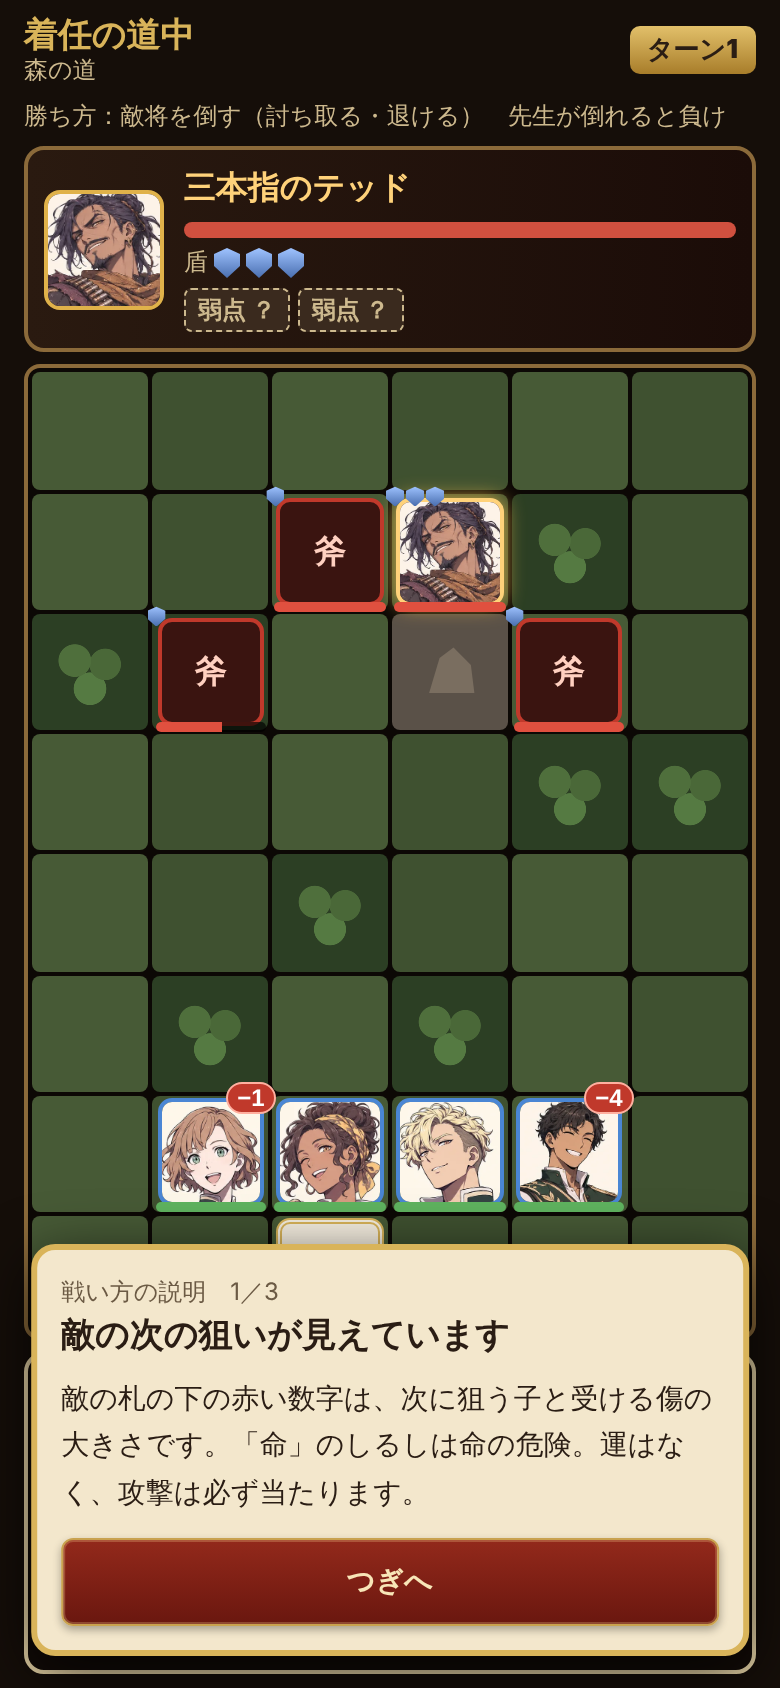
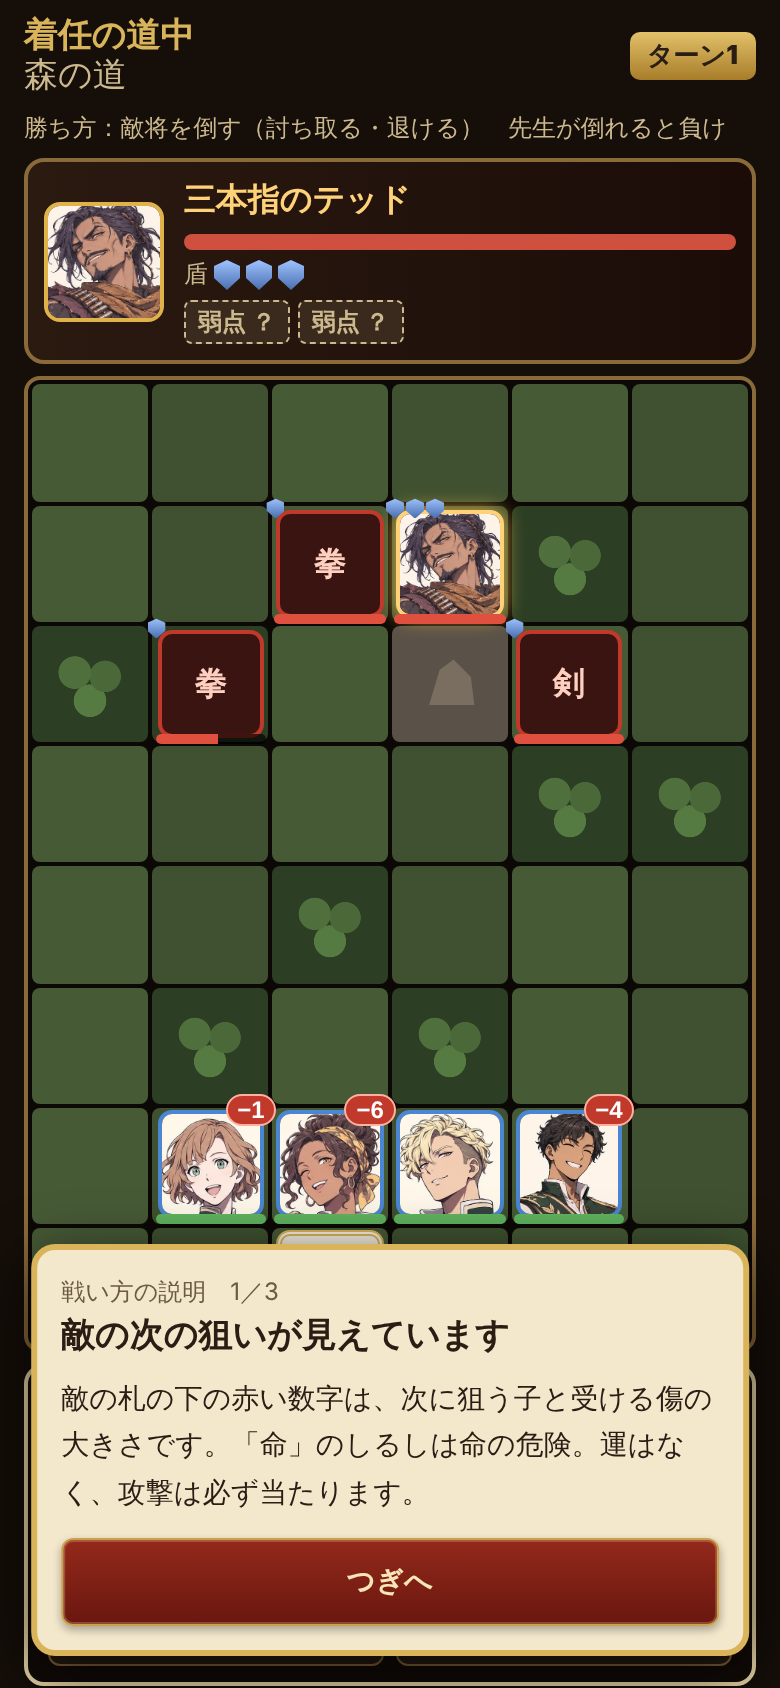
19夜目：効果音・小さい字の直し・画面の撮り直し・報告書の下書き・設計書の先頭に正本の案内
Claude-Session: https://claude.ai/code/session_01BQhBDAHr1iwRSoUrPG1dMB

diff --git a/src/ui/styles.css b/src/ui/styles.css
@@ -2068,10 +2068,10 @@ details.fold > summary::-webkit-details-marker { display: none; }
 .tb-u.foe .tb-hp i { background: #e0503f; }
 .tb-ss { position: absolute; top: -3px; left: -2px; display: flex; gap: 1px; }
 .tb-ss .sh { width: 9px; height: 10px; }
-.tb-brk { font: 900 10px var(--sans, sans-serif); background: #ffd27a; color: #5a120c; border-radius: 3px; padding: 0 3px; }
+.tb-brk { font: 900 12px var(--sans, sans-serif); background: #ffd27a; color: #5a120c; border-radius: 3px; padding: 0 3px; }
 .tb-inc { position: absolute; top: -5px; right: -3px; z-index: 4; background: #c0392b; color: #fff; font: 900 12px var(--sans, sans-serif); border-radius: 8px; padding: 0 5px; border: 1px solid #ffb0a0; }
 .tb-inc.lethal { background: #1a0000; border: 2px solid #ff3b2b; color: #ffd0c0; animation: tbpulse .8s infinite; }
-.tb-aim { position: absolute; bottom: -2px; left: 50%; transform: translateX(-50%); background: #000c; color: #ffd27a; font: 700 11px var(--sans, sans-serif); border-radius: 6px; padding: 0 4px; }
+.tb-aim { position: absolute; bottom: -2px; left: 50%; transform: translateX(-50%); background: #000c; color: #ffd27a; font: 700 12px var(--sans, sans-serif); border-radius: 6px; padding: 0 4px; }
 .tb-pop { position: absolute; transform: translateX(-50%); z-index: 9; font: 900 20px var(--sans, sans-serif); color: #fff; text-shadow: 0 0 3px #a3281e, 0 0 3px #a3281e, 0 2px 0 #5a120c; pointer-events: none; animation: tbpop .9s forwards; white-space: nowrap; }
 .tb-pop.heal { text-shadow: 0 0 3px #1f6b3a, 0 0 3px #1f6b3a; }
 .tb-pop.sh { font-size: 13px; color: #cfe2ff; text-shadow: 0 0 3px #1b3a70, 0 0 3px #1b3a70; margin-top: 18px; }
@@ -2092,7 +2092,7 @@ details.fold > summary::-webkit-details-marker { display: none; }
 .tb-wf { width: 40px; height: 40px; border-radius: 6px; overflow: hidden; border: 2px solid #4a86d4; flex: none; position: relative; background: #f7f0e2; }
 .tb-techs { display: flex; flex-wrap: wrap; gap: 4px; margin-top: 3px; }
 .tb-tch { font-size: 12px; background: #2a1c12; border: 1px solid #8b6a3a; border-radius: 5px; padding: 1px 5px; color: #f1e3c2; }
-.tb-tch small { color: #cdb98e; margin-left: 3px; }
+.tb-tch small { color: #cdb98e; margin-left: 3px; font-size: 12px; }
 .tb-cards { display: grid; grid-template-columns: repeat(2, minmax(0, 1fr)); gap: 6px; margin-top: 6px; }
 .tb-card { min-height: 64px; text-align: left; border-radius: 8px; border: 1px solid #8b6a3a; background: #3a2a1e; color: #f1e3c2; padding: 6px 8px; display: flex; flex-direction: column; gap: 2px; font: inherit; cursor: pointer; overflow: hidden; }
 .tb-card:disabled { opacity: .4; }
@@ -2203,3 +2203,4 @@ body[data-light="day"], body[data-light="day"][data-season] {
 }
 body[data-light="day"] .desk-candle { opacity: .35; box-shadow: none; }
 body[data-light="day"] .desk-candle::before { display: none; }
+.tb-wrap small, .nem-card small { font-size: max(12px, 1em); }

diff --git a/src/ui/sound.ts b/src/ui/sound.ts
@@ -38,6 +38,11 @@ const SOUNDS: Record<string, Note[]> = {
   tick: [[1568, 0, 0.06, 'square', 0.1], [2093, 0.04, 0.08, 'square', 0.08]],
   page: [[300, 0, 0.05, 'triangle', 0.1], [500, 0.03, 0.06, 'triangle', 0.06]],
   text: [[1200, 0, 0.02, 'square', 0.03]],
+  // 19夜目：新しい戦いの効果音（ゲームの中で作る。設定の「効果音」で切れる）
+  weak: [[880, 0, 0.05, 'square', 0.12], [1320, 0.04, 0.08, 'triangle', 0.14]],
+  shield: [[2400, 0, 0.03, 'square', 0.1], [1800, 0.02, 0.06, 'triangle', 0.14], [3200, 0.05, 0.05, 'sine', 0.08]],
+  break: [[180, 0, 0.18, 'sawtooth', 0.28], [90, 0.06, 0.3, 'square', 0.2], [2600, 0, 0.05, 'square', 0.12], [1900, 0.08, 0.08, 'square', 0.1], [1400, 0.16, 0.12, 'triangle', 0.12]],
+  nemesis: [[110, 0, 0.5, 'sawtooth', 0.16], [116, 0, 0.5, 'sawtooth', 0.12], [220, 0.35, 0.4, 'square', 0.1], [207, 0.7, 0.6, 'sawtooth', 0.12]],
   // エンディングの調べ（BGMのファイルがなくても流れる短いメロディ）
   ending: [[392, 0, 0.45, 'triangle', 0.16], [523, 0.45, 0.45, 'triangle', 0.16], [587, 0.9, 0.45, 'triangle', 0.16], [659, 1.35, 0.9, 'triangle', 0.16],
     [523, 2.3, 0.45, 'triangle', 0.14], [587, 2.75, 0.45, 'triangle', 0.14], [784, 3.2, 1.4, 'triangle', 0.16], [262, 0, 1.3, 'sine', 0.08], [330, 1.35, 1.3, 'sine', 0.08], [392, 3.2, 1.6, 'sine', 0.08]],

diff --git a/src/ui/Tactics.tsx b/src/ui/Tactics.tsx
@@ -54,6 +54,7 @@ export function TacticsView() {
   useEffect(() => {
     if (!s?.battle || started.current) return;
     started.current = true;
+    if (s.battle.nemesisId) sfx('nemesis');
     if (s.battle.fx.length && s.battle.turn === 1) { const fx = s.battle.fx; act((g) => { if (g.battle) g.battle.fx = []; }, false); setReplay({ view: clone(s.battle), queue: fx, i: 0 }); }
   }, []);
   // 演出を1つずつ

diff --git a/docs/reports/night19.md b/docs/reports/night19.md
@@ -1,0 +1,55 @@
+# 19夜目の報告（大改修：宿敵の仕組みで作り直す　①〜⑨）
+
+①〜⑨を、止まらずに続けて作りました。どの段階のあとも、`main` に入れて、最初から遊べる状態にしています（7回に分けて入れました）。
+いまのゲームは「新しく始める」と、**着任の道中の戦い**から始まります。
+
+## ①〜⑨のようす
+
+| 段階 | 状態 | 中身 |
+|---|---|---|
+| ① 片づけ | **できた** | 札の戦い・自動の戦い・戦技と魔法の5つ枠・策・連携技・技の進化・施設・講師をはずしました。能力は「体力・力・魔力・技・速さ・守り」と心の「闘志・平静・執念」。教訓（出来事つきの力）、全盛期と衰えも足しました。古いセーブ（1〜18夜目版）は一度に変換して読みこめます |
+| ①' 兵種 | **できた（一部は仮）** | 作業中に足された兵種のヒアリング（問78〜107）に合わせ、**初級8 → 中級24 → 上級26 → 最上級26**の木にしました（10〜15種の案は取り消しのため）。最上級の魔法・癒し・短剣・騎兵の13と、隠れた兵種9は、まだ決まっていないので仮の名前です |
+| ② 新しい戦い | **できた** | 6×8のマス目・運なし・敵の次の狙いが見える・10種の攻撃（斬・突・射・砕・打・炎・雷・氷・光・闇）・盾と弱点・ブレイク・技の残り回数・「ひとつ戻す」・おまかせ。操作は問36の形（教え子をタップ→青と赤→赤い敵をタップ→札が並ぶ→札で実行） |
+| ③ 宿敵の芯 | **できた** | 名前のある将が約45人。学校と因縁があるのは、おまかせで平均10人ほど。覚えていること（負けた・傷つけられた相手を名前で、割られた弱点、屈辱、奪われた人）、再会までの変化、二つ名、情報が少しずつ分かる、因縁の帳 |
+| ④ 宿敵戦 | **できた** | 宿敵ごとの戦場、口上と台詞（盾を割られた・ブレイク・追いつめられた・倒した・最期・勝った・名前を呼ぶ）、執念で一度持ちこたえる、逃げる、割られた弱点を覚える、前にやった子を狙う、命の危険のしるし、効果音 |
+| ⑤ 毎週の授業と交流 | **できた** | 週のはじめに授業の札1枚＋交流の札1枚、「先週と同じ」。弱点の研究・心の鍛錬。交流の宿敵の場面（打ち明け話・暴走を止める・揺れる心・敵国の友・仇を討ったあと）。出撃しない子の支え（薬・罠・弱点を調べる） |
+| ⑥ 始まりの1時間 | **できた** | 着任の道中の戦い（説明つき・死なない）→ 最初の宿敵 → 学校に着く。1年生6〜8人と上級生2〜3人。新入生は10人ほどの希望者から選ぶ（評判で増え、仇討ちの子も来る） |
+| ⑦ 人の地図 | **できた** | 勢力図の地域に、治める人・守る人の顔。宿敵が領地を奪って治める。教え子も領主になる。大きな戦は将の力で決まる。評判で仲立ち・和平の席 |
+| ⑧ 長い時間 | **できた** | 蘇り（名前のある敵だけ・理由つき・一度だけ／呪いはたまに）、捕らわれて生きていた教え子、敵の組織（追放・二代目）、先生の代替わり（引退・さらわれる→敵として戻る）、敵に回る教え子、卒業生の子の入学、衰え |
+| ⑨ 仕上げ | **できた（一部未完成）** | 難しさ（やさしい・ふつう・きびしい）と「生徒が死なない」を始めるときに選べる、記録枠3つ、昼の机と夜のろうそくの机、学校が焼かれても立て直せる、宿敵が同じ相手に同じ台詞を二度言わない |
+
+## 見てほしいところ（3つ）
+
+1. **宿敵戦の操作**（`docs/screenshots/night19/04-nemesis-cards-*`〜`07`）：教え子をタップすると、動ける青と、攻撃できる赤が一度に光ります。赤い敵をタップすると、いちばんいい場所へ動いた前提の札が並びます。札に「ダメージ」「弱点！盾−1」「ブレイク！」「倒せる」「のこり2」が出ます。間違えたら「ひとつ戻す」。幅360・390・430で、札が重ならないことを確かめました。
+2. **宿敵との再会と因縁の帳**（`08-reunion-390`・`09-ledger-390`・`10-ledger-card-390`）：前に会ったときの札と今の札を並べます（顔の絵はそのまま。札の枠の色・二つ名の帯・ひび・「傷」の欄・文で変化を見せます）。ホームの机の「因縁の帳」から、宿敵ひとりひとりの「覚えていること」が読めます。
+3. **始まり**（`01-opening-*`・`02-opening-*`）：新しく始めると、道中で盗賊の隊長に襲われます。3つだけの短い説明のあとで戦い、その隊長が最初の宿敵として因縁の帳に記されます。
+
+## 判断したこと
+
+- **作業の置き場所**：指示書どおり `main` に入れました。あわせて作業用のブランチ（`claude/happy-dirac-egiv23`）にも入れています。作業中にヒナタさんが `main` にヒアリングを足していたので、そのつど取りこんでいます。
+- **兵種**：指示書の①は「10〜15種」でしたが、作業中のヒアリング（問78〜107）と、指示書に足された「途中で足されたこと」に合わせ、木をそのまま作りました。兵種の表は `src/data/classes.ts` にまとめ、段階・もとの兵種・特技・武器の種類・攻撃の種類・動き・飛ぶかを持っています。あとで中身を差し替えられます。`docs/new/classes.md` に「確定」の印はまだなかったので、最上級の決まっていない13と隠れた兵種は仮のままです。
+- **特技の効き目**：決まった兵種の特技は、戦いの中で効くようにしました（間合い・二の太刀・焔刃・かばう・祈り・見抜き・罠・突撃・天駆け・旗印・結界・呪縛・挟み討ち など）。説明が複雑なもの（無明・不動・城崩し・奇跡・蹂躙・盾の誓い・背信の剣・語り部）は、まだ説明だけです。
+- **宿敵戦は「宿敵と結びついた依頼」だけ**：依頼の先に宿敵がいる／果たし状／勝手に向かった子、のときだけ宿敵戦（命の危険あり）にしました。ほかの戦いでも、会ったことのある敵将は口上で前のことに触れます。
+- **宿敵を育てるための決まり**：名前のある将は、追いつめられる（体力4分の1）と退きます。**ブレイク中は動けないので逃げられず、討つ機会になります**（盾を割らないと逃げられる）。ふつうの戦いで討ち取った将は、半分ほど「深手を負って逃げのびた」になります。宿敵戦で討てば、ほぼ本当に討てます（まれに死体が見つからず、あとで蘇ることがあります）。
+- **命の危険**：「宿敵のとどめ」＝体力が3分の1ほどまで減った子への、宿敵の倒れる一撃だけ。前もって敵の札に「命」のしるしと、下に「命の危険」の文が出ます。
+- **先生**：先生も出撃します（号令＝ほかの子をもう一度動かす、見極め＝隠れた弱点を明かす。攻撃は弱め）。先生が倒れると負けです。宿敵戦で倒れると、ときどきさらわれ、何年かあとに敵として戻ってきます。
+- **毎週**：授業の札は1週ぶん（前の5日ぶんに近い伸び）にしました。交流の札は面談・お茶会・食事会・紅白戦・進路指導と、宿敵の場面です。
+- **古いセーブ**：1つずつの古い変換をやめ、どの版からでも一度に新しい形へ変えるようにしました（古い変換が、はずした仕組みに頼っていたため）。途中の戦いは、依頼を選ぶところからやり直します。タイトルで「前の版のセーブです。新しく始めるのがおすすめです（続きからも遊べます）」と知らせます。古い版のテスト（2〜18夜目）は、はずした仕組みを確かめるものだったので消し、新しいテストに入れ替えました。
+- **顔**：顔の絵には傷などを重ねません（前の版の敵将の顔の傷跡の重ね絵は消しました）。
+
+## 未完成のもの・気づいたこと
+
+- 最上級の13と隠れた兵種は仮の名前です。`docs/new/classes.md` が「確定」になったら作り直します。
+- 先生の兵種（教官→指揮官→軍師→名将）は、まだありません（号令と見極めの回数は同じ）。
+- 宿敵が味方になる・恋や友情（問12）、密偵を送る（敵の組織への手出し）は、まだ入れていません（密偵の兵種の「見抜き」と、うわさの手紙で情報が増える形だけ）。
+- 1対1の場面は、顔を大きく向かい合わせ、斬撃と数字を出す形です。設定で「ふつう・短く・切る」を選べます。
+- iPhone の実機では確かめられていません（Chromium で幅360・390・430を撮りました）。
+- 撮影の自動の点検で、地図の上の小さな地域の札・タイトルの一部のボタンが44pxより小さいと出ました（前の回からのもの）。戦いの画面の札は44px以上です。
+
+## シミュレーション
+
+（下の「長いシミュレーション」の節に、最後の結果を書きます）
+
+## かかった時間
+
+（最後に書きます）
